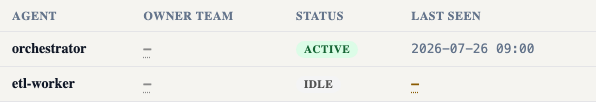
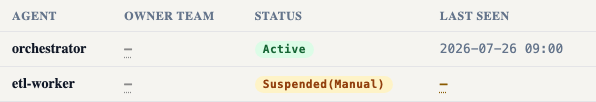
✅ (dashboard): Cover the unavailable branches and stop the blanket API stub
Three changes to the review pass:

- production-shaped status fixtures (`Active`, `Suspended(Manual)`), plus an
  assertion that a suspended agent keeps its tone despite the payload;
- a disagreeing cascade, so the merged verdict is observable, with an
  assertion that `secrets.read` appears in the merged section only as a deny;
- captures for both `unavailable` branches, which were unit-tested but absent
  from the visual evidence. They allow for the app's default TanStack retry
  policy — a slow failure must still land on `unavailable` rather than on a
  benign empty state while retries are in flight.

The `**/api/**` catch-all now records what it absorbs and the run asserts no
IAM/agents request reached it, so the specs can notice an unexpected call
again. That check immediately found `/api/v1/iam/api-keys` being silently
answered with `{}`; it now has an explicit fixture.

Refs AAASM-5110, AAASM-5111

diff --git a/dashboard/tests/e2e/review-aaasm-5110.spec.ts b/dashboard/tests/e2e/review-aaasm-5110.spec.ts
@@ -11,16 +11,24 @@
  *  2. owner team folds to `—` under `not-supported` rather than naming a team,
  *     and a missing `last_event` folds to `—` under `unknown` rather than
  *     dating the sighting;
- *  3. the permissions panel renders the real cascade scopes, and attributes no
- *     grant to `support-agent-policy-v2`, `deploy-agent-policy-v1`,
- *     `agent.operator` or `agent.readonly` — none of which exist;
- *  4. an empty cascade renders `unconfigured`, never "no effective
+ *  3. the status renders verbatim — including the `Suspended(Manual)` payload
+ *     the endpoint actually emits — and still earns its tone, so the tone map
+ *     is live rather than dead code;
+ *  4. the panel leads with the merged verdict `effective_permissions` already
+ *     computed, on a cascade whose scopes disagree, rather than leaving the
+ *     operator to resolve two conflicting chips by eye;
+ *  5. it renders the real cascade scopes, and attributes no grant to
+ *     `support-agent-policy-v2`, `deploy-agent-policy-v1`, `agent.operator` or
+ *     `agent.readonly` — none of which exist;
+ *  6. an empty cascade renders `unconfigured`, never "no effective
  *     permissions": under AAASM-5106 an empty allow/deny over an empty cascade
  *     means nothing was evaluated, not that the agent holds nothing;
- *  5. the Access Log renders `not-supported` with no row, no verdict and no
+ *  7. a failed registry or capability request renders `unavailable`, never an
+ *     empty table and never the empty-cascade state;
+ *  8. the Access Log renders `not-supported` with no row, no verdict and no
  *     address-shaped text anywhere — and its filter is inert, so an empty
  *     surface can never be read as "no events matched";
- *  6. neither tab produces console errors or uncaught exceptions, in light and
+ *  9. neither tab produces console errors or uncaught exceptions, in light and
  *     dark.
  *
  * Screenshots land in dashboard/verify/5110/.
@@ -75,27 +83,40 @@ function rawAgent(over: Record<string, unknown>) {
 }
 
 /**
- * Two registered agents. `etl-worker` carries `last_event: null` — a freshly
- * registered agent that has not reported yet — so the `unknown` branch is
- * exercised alongside the known one. Neither carries a team: `AgentResponse`
- * has no field for one.
+ * Two registered agents, shaped exactly as `GET /api/v1/agents` emits them.
+ *
+ * `status` is the Rust `Debug` rendering `aa-api` produces
+ * (`format!("{:?}", r.status)` over `aa_gateway::registry::AgentStatus`), so
+ * `Active` and `Suspended(Manual)` — not a lowercase enum. A fixture using
+ * `active` / `idle` describes a response the gateway cannot produce, and would
+ * have legitimised a tone map that is dead in production.
+ *
+ * `etl-worker` carries `last_event: null` — a freshly registered agent that has
+ * not reported yet — so the `unknown` branch is exercised alongside the known
+ * one. Neither carries a team: `AgentResponse` has no field for one.
  */
 const AGENTS = {
   items: [
-    rawAgent({ id: 'a1', name: 'orchestrator', status: 'active', last_event: '2026-07-26T09:00:00Z' }),
-    rawAgent({ id: 'a2', name: 'etl-worker', status: 'idle', last_event: null }),
+    rawAgent({ id: 'a1', name: 'orchestrator', status: 'Active', last_event: '2026-07-26T09:00:00Z' }),
+    rawAgent({ id: 'a2', name: 'etl-worker', status: 'Suspended(Manual)', last_event: null }),
   ],
   page: 1,
   per_page: 100,
   total: 2,
 }
 
-/** A real cascade: two scopes, each contributing a rule. */
+/**
+ * A real cascade where the two scopes **disagree**: `global` allows
+ * `secrets.read` and `team:platform` denies it. Most-restrictive-wins makes the
+ * merged answer `deny`, and `effective_permissions` already computed it —
+ * so this is the payload that proves the panel surfaces the merge rather than
+ * leaving the operator to resolve two conflicting chips by eye.
+ */
 const POPULATED_CASCADE = {
   allow: ['tools.invoke'],
   deny: ['secrets.read'],
   sources: [
-    { scope: 'global', allow: ['tools.invoke'], deny: [] },
+    { scope: 'global', allow: ['tools.invoke', 'secrets.read'], deny: [] },
     { scope: 'team:platform', allow: [], deny: ['secrets.read'] },
   ],
 }
@@ -109,6 +130,8 @@ const EMPTY_CASCADE = { allow: [], deny: [], sources: [] }
 
 interface Harness {
   errors: string[]
+  /** URLs that reached the catch-all instead of an explicit fixture. */
+  unrouted: string[]
 }
 
 async function bootstrap(page: Page, theme: Theme): Promise<Harness> {
@@ -135,18 +158,43 @@ async function bootstrap(page: Page, theme: Theme): Promise<Harness> {
 
   // Permissive fallback first (least specific); specific fixtures registered
   // afterwards win, since Playwright matches most-recently-added first.
-  await page.route('**/api/**', (r) => r.fulfill({ json: {} }))
+  //
+  // It records what it absorbs rather than silently answering `{}` for
+  // everything: a blanket stub means the run can no longer notice that a
+  // surface under test started calling something unexpected. `unrouted` is
+  // asserted against below, so a new IAM/agents request fails the run instead
+  // of quietly receiving an empty object.
+  const unrouted: string[] = []
+  await page.route('**/api/**', (r) => {
+    unrouted.push(new URL(r.request().url()).pathname)
+    return r.fulfill({ json: {} })
+  })
   await page.route('**/api/v1/approvals**', (r) => r.fulfill({ json: { items: [] } }))
   await page.route('**/api/v1/iam/members**', (r) =>
     r.fulfill({ json: { items: [], page: 1, page_size: 20, total: 0 } }),
   )
   await page.route('**/api/v1/iam/roles**', (r) => r.fulfill({ json: [] }))
+  // Backs the Service-Identities tab count on the Identity page header. Found
+  // by the `unrouted` check above — it was previously absorbed by the blanket
+  // stub, which is precisely the blind spot that check exists to close.
+  await page.route('**/api/v1/iam/api-keys**', (r) => r.fulfill({ json: [] }))
   await page.route('**/api/v1/agents?**', (r) => r.fulfill({ json: AGENTS }))
   await page.route('**/api/v1/agents', (r) => r.fulfill({ json: AGENTS }))
   await page.route('**/api/v1/ws/events**', (r) => r.abort())
   await page.route('**/api/v1/alerts/ws**', (r) => r.abort())
 
-  return { errors }
+  return { errors, unrouted }
+}
+
+/**
+ * Nothing the surfaces under test depend on may reach the catch-all — if it
+ * does, the run is asserting against an empty object rather than a fixture.
+ */
+function expectFullyRouted(harness: Harness) {
+  const leaked = harness.unrouted.filter(
+    (p) => p.startsWith('/api/v1/agents') || p.startsWith('/api/v1/iam'),
+  )
+  expect(leaked, 'IAM/agents requests must hit an explicit fixture').toEqual([])
 }
 
 /** Register the capability fixture for whichever cascade this case needs. */
@@ -202,10 +250,65 @@ test.describe('AAASM-5110 / AAASM-5111 review — Identity truthfulness', () => 
       await expect(lastSeenKnown).toHaveAttribute('data-truth-state', 'known')
       await expect(lastSeenKnown).toContainText('2026-07-26 09:00')
 
+      // ── status renders verbatim, and a payload still earns its tone ──────
+      await expect(page.getByTestId('agent-status-a1')).toContainText('Active')
+      const suspended = page.getByTestId('agent-status-a2')
+      await expect(suspended).toContainText('Suspended(Manual)')
+      await expect(suspended.locator('.iam-agent-status')).toHaveClass(
+        /iam-agent-status--suspended/,
+      )
+
       expect(listText).not.toContain('undefined')
       expect(listText).not.toContain('NaN')
 
       await list.screenshot({ path: `${EVIDENCE_DIR}/roles-registry-${theme}.png` })
+      expectFullyRouted(harness)
+      expect(harness.errors, 'no console errors or uncaught exceptions').toEqual([])
+    })
+
+    test(`a failed registry request reads as unavailable in ${theme}`, async ({ page }) => {
+      const harness = await bootstrap(page, theme)
+      await page.route('**/api/v1/agents?**', (r) => r.fulfill({ status: 503, json: {} }))
+      await page.route('**/api/v1/agents', (r) => r.fulfill({ status: 503, json: {} }))
+      await navigate(page, '/identity?tab=roles')
+
+      // A failed request supports no claim at all — least of all "no agents
+      // are registered", which is what an empty table would say.
+      //
+      // The app's QueryClient uses TanStack's default retry policy (3 attempts,
+      // exponential backoff), so settling into the error state takes longer
+      // than the 5s default assertion timeout. Waiting it out is the point:
+      // a slow failure must still land on `unavailable`, never on a benign
+      // empty state while the retries are in flight.
+      const error = page.getByTestId('agent-registry-error')
+      await expect(error).toBeVisible({ timeout: 20_000 })
+      await expect(error).toHaveAttribute('data-truth-state', 'unavailable')
+      await expect(page.getByTestId('agent-registry-empty')).toHaveCount(0)
+      await expect(page.locator('[data-testid^="agent-row-"]')).toHaveCount(0)
+
+      await error.screenshot({ path: `${EVIDENCE_DIR}/roles-registry-unavailable-${theme}.png` })
+      expect(harness.errors, 'no console errors or uncaught exceptions').toEqual([])
+    })
+
+    test(`a failed capability request reads as unavailable in ${theme}`, async ({ page }) => {
+      const harness = await bootstrap(page, theme)
+      await page.route('**/api/v1/agents/*/capabilities', (r) =>
+        r.fulfill({ status: 503, json: {} }),
+      )
+      await navigate(page, '/identity?tab=roles')
+      await page.getByTestId('agent-row-a1').click()
+
+      // Same retry-backoff allowance as the registry case above.
+      const error = page.getByTestId('agent-permissions-error')
+      await expect(error).toBeVisible({ timeout: 20_000 })
+      await expect(error).toHaveAttribute('data-truth-state', 'unavailable')
+      // A failed cascade fetch is not the AAASM-5106 empty-cascade case.
+      await expect(page.getByTestId('agent-permissions-unconfigured')).toHaveCount(0)
+      await expect(page.getByTestId('permission-effective')).toHaveCount(0)
+
+      await page.getByTestId('agent-permissions-panel').screenshot({
+        path: `${EVIDENCE_DIR}/roles-cascade-unavailable-${theme}.png`,
+      })
       expect(harness.errors, 'no console errors or uncaught exceptions').toEqual([])
     })
 
@@ -218,7 +321,17 @@ test.describe('AAASM-5110 / AAASM-5111 review — Identity truthfulness', () => 
       const panel = page.getByTestId('agent-permissions-panel')
       await expect(panel).toBeVisible()
 
-      // ── 3. the gateway's own scope labels, and no invented grant source ──
+      // ── 3a. the merged verdict the backend computed leads the panel ──────
+      // global allows secrets.read, team:platform denies it; most-restrictive
+      // -wins makes the answer deny, and the endpoint already resolved it.
+      const effective = page.getByTestId('permission-effective')
+      await expect(effective).toBeVisible()
+      const mergedDeny = effective.locator('li', { hasText: 'secrets.read' })
+      await expect(mergedDeny).toHaveCount(1)
+      await expect(mergedDeny).toContainText('deny')
+      await expect(mergedDeny).not.toContainText('allow')
+
+      // ── 3b. the gateway's own scope labels, and no invented grant source ─
       const scopes = page.getByTestId('permission-scope-label')
       await expect(scopes).toHaveCount(2)
       await expect(scopes.nth(0)).toHaveText('global')
@@ -235,6 +348,7 @@ test.describe('AAASM-5110 / AAASM-5111 review — Identity truthfulness', () => 
       await expect(granted).toContainText('Not supported')
 
       await panel.screenshot({ path: `${EVIDENCE_DIR}/roles-cascade-${theme}.png` })
+      expectFullyRouted(harness)
       expect(harness.errors, 'no console errors or uncaught exceptions').toEqual([])
     })
 
